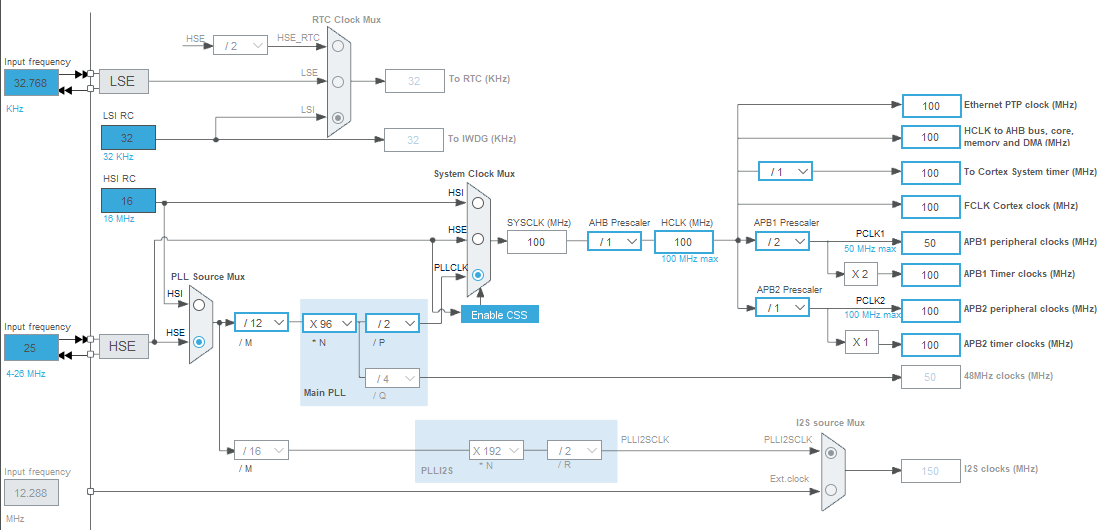
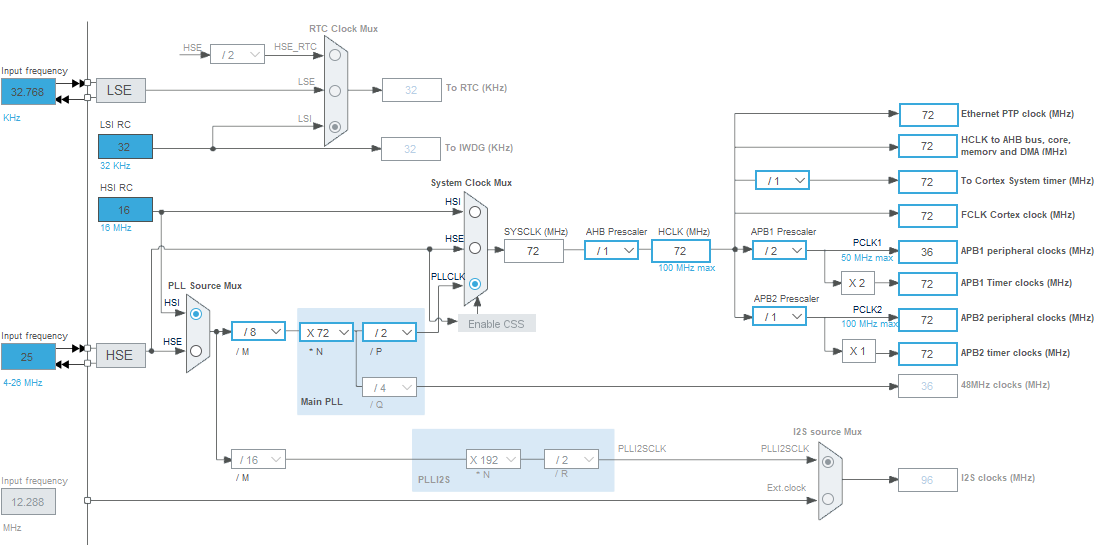
Change clock source and speed

Changed region(s): [[0.0, 0.0302, 1.0, 0.7849], [0.0, 0.7849, 0.9564, 0.9962]]

diff --git a/CubeMX-i2c-base/LEDEXTIOI2C/Src/main.c b/CubeMX-i2c-base/LEDEXTIOI2C/Src/main.c
@@ -121,12 +121,13 @@ void SystemClock_Config(void)
   /** Initializes the RCC Oscillators according to the specified parameters
   * in the RCC_OscInitTypeDef structure.
   */
-  RCC_OscInitStruct.OscillatorType = RCC_OSCILLATORTYPE_HSE;
-  RCC_OscInitStruct.HSEState = RCC_HSE_ON;
+  RCC_OscInitStruct.OscillatorType = RCC_OSCILLATORTYPE_HSI;
+  RCC_OscInitStruct.HSIState = RCC_HSI_ON;
+  RCC_OscInitStruct.HSICalibrationValue = RCC_HSICALIBRATION_DEFAULT;
   RCC_OscInitStruct.PLL.PLLState = RCC_PLL_ON;
-  RCC_OscInitStruct.PLL.PLLSource = RCC_PLLSOURCE_HSE;
-  RCC_OscInitStruct.PLL.PLLM = 12;
-  RCC_OscInitStruct.PLL.PLLN = 96;
+  RCC_OscInitStruct.PLL.PLLSource = RCC_PLLSOURCE_HSI;
+  RCC_OscInitStruct.PLL.PLLM = 8;
+  RCC_OscInitStruct.PLL.PLLN = 72;
   RCC_OscInitStruct.PLL.PLLP = RCC_PLLP_DIV2;
   RCC_OscInitStruct.PLL.PLLQ = 4;
   if (HAL_RCC_OscConfig(&RCC_OscInitStruct) != HAL_OK)
@@ -143,7 +144,7 @@ void SystemClock_Config(void)
   RCC_ClkInitStruct.APB1CLKDivider = RCC_HCLK_DIV2;
   RCC_ClkInitStruct.APB2CLKDivider = RCC_HCLK_DIV1;
 
-  if (HAL_RCC_ClockConfig(&RCC_ClkInitStruct, FLASH_LATENCY_3) != HAL_OK)
+  if (HAL_RCC_ClockConfig(&RCC_ClkInitStruct, FLASH_LATENCY_2) != HAL_OK)
   {
     Error_Handler();
   }
